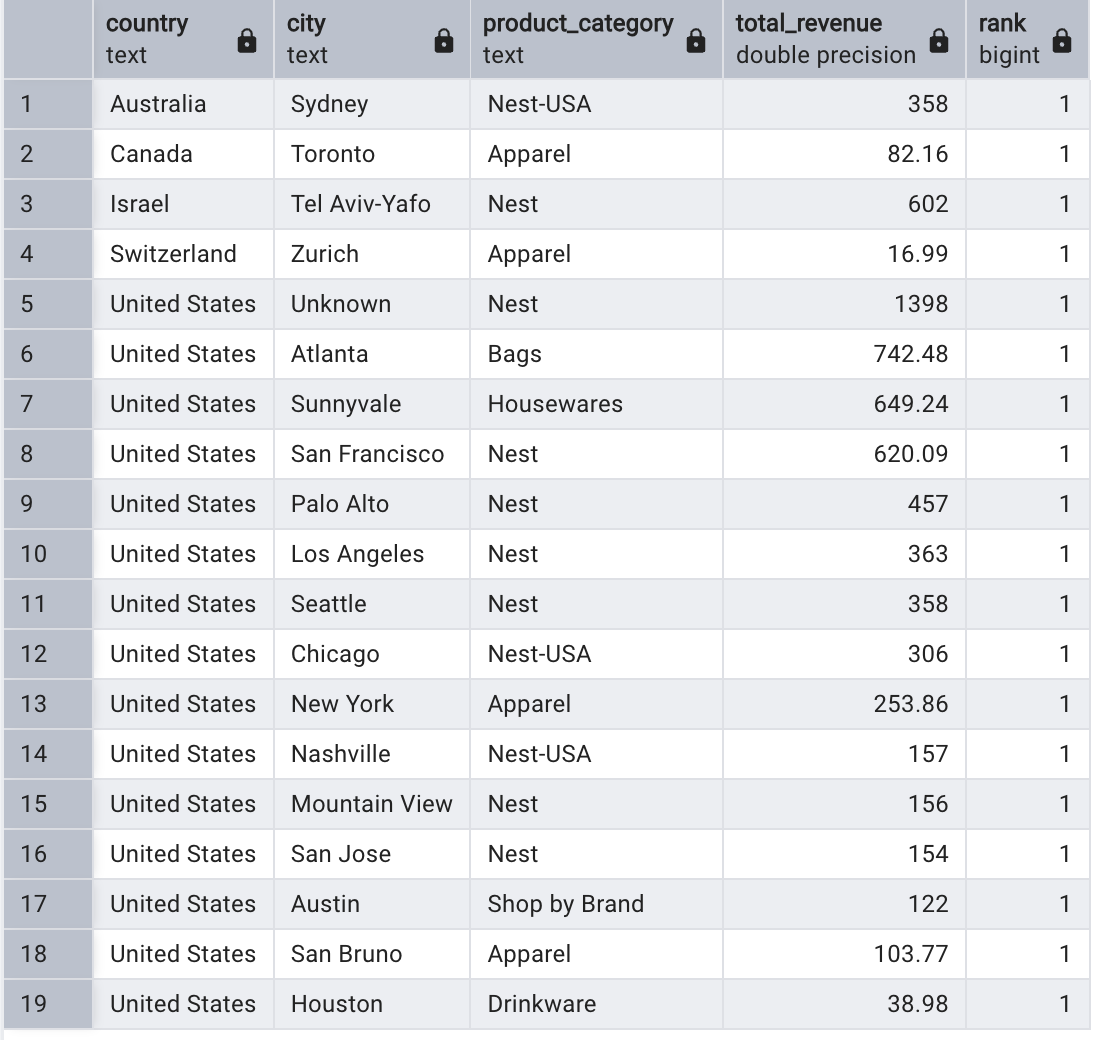
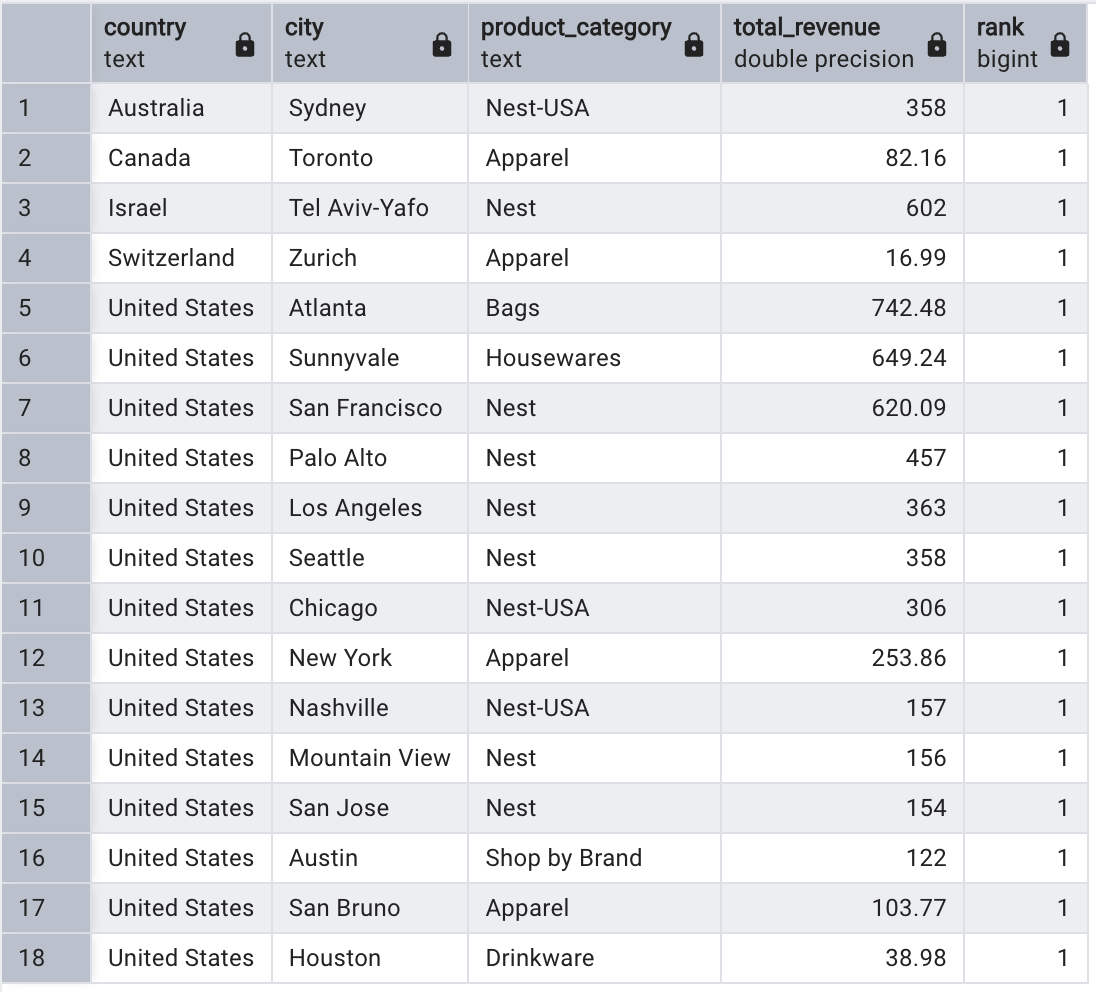
updated images and starting_with_questions files

diff --git a/starting_with_questions.md b/starting_with_questions.md
@@ -80,31 +80,32 @@ WITH CleanCategories AS (
 SELECT	CASE
       		WHEN country = 'Canada' AND city = 'New York' THEN 'United States'
       		ELSE country
-    		END AS country,
+    	END AS country,
     	CASE
       		WHEN city = 'not available in demo dataset' THEN 'Unknown'
-      	ELSE city
+      		ELSE city
     	END AS city,
     	REPLACE(v2_product_category, '${escCatTitle}', 'Unknown') AS cleaned_category,
-		total_transaction_revenue
+	total_transaction_revenue
 FROM 	all_sessions
 WHERE 	total_transaction_revenue IS NOT NULL
 						),
 FurtherClean AS (
 SELECT	country,
     	city,
-	    REGEXP_REPLACE(cleaned_category, '^Home/([^/]+)(/.*)?$', '\1') AS product_category,
-		total_transaction_revenue
+	REGEXP_REPLACE(cleaned_category, '^Home/([^/]+)(/.*)?$', '\1') AS product_category,
+ 	total_transaction_revenue
 FROM 	CleanCategories
 				),
 
 TotalRevenue AS (
 SELECT	country,
-		city,
-		product_category,
-		SUM(total_transaction_revenue)/1000000 AS total_revenue
+	city,
+	product_category,
+	SUM(total_transaction_revenue)/1000000 AS total_revenue
 FROM	FurtherClean
 WHERE	product_category NOT IN ('(not set)', 'Unknown')
+	AND city != 'Unknown'
 GROUP BY country, city, product_category
 				),
 RankBy AS (
